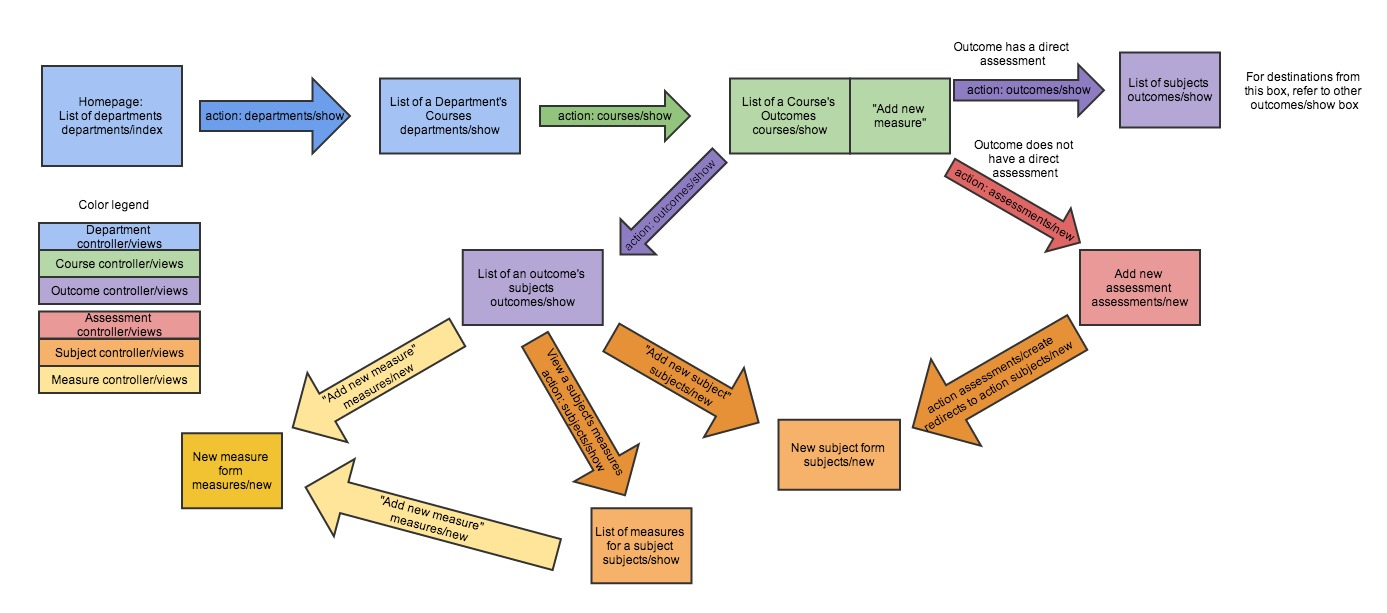
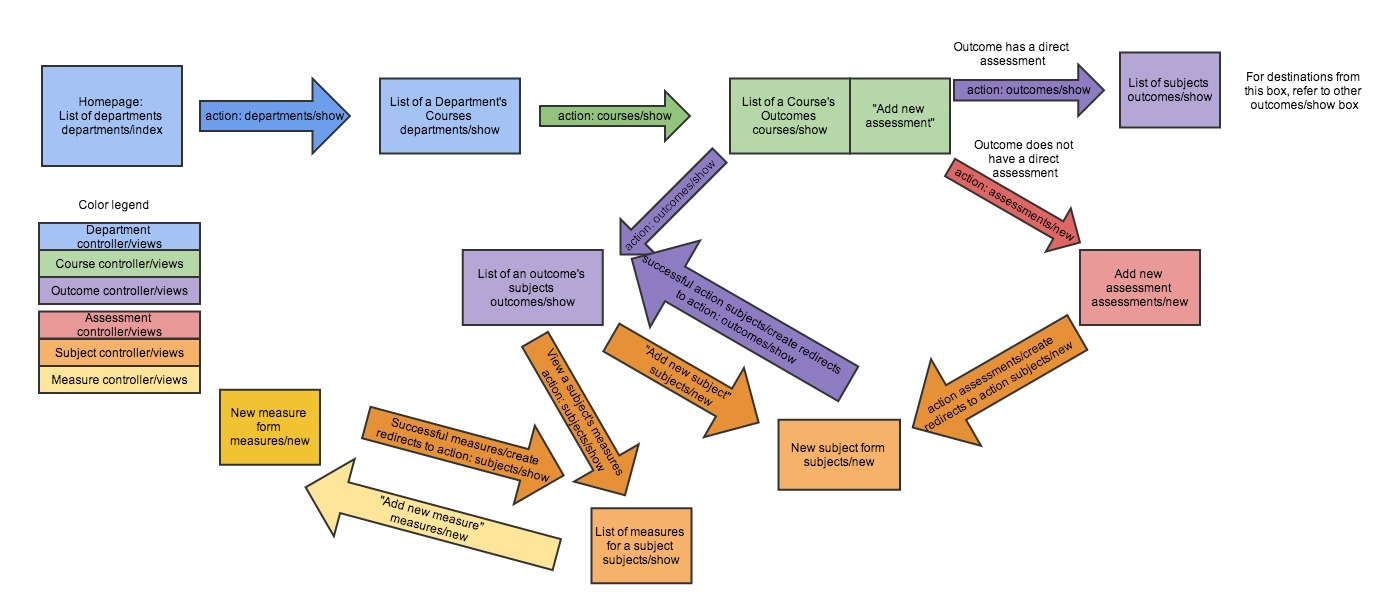
updated TODO.txt and storyboard

Changed region(s): [[0.124, 0.5269, 0.403, 0.8369], [0.434, 0.4029, 0.62, 0.6509], [0.62, 0.186, 0.682, 0.217]]

diff --git a/config/routes.rb b/config/routes.rb
@@ -1,6 +1,6 @@
 Rails.application.routes.draw do
 
-  root 'department#index'
+  root 'departments#index'
   
   match ':controller(/:action(/:id))', :via => [:get, :post]
 
